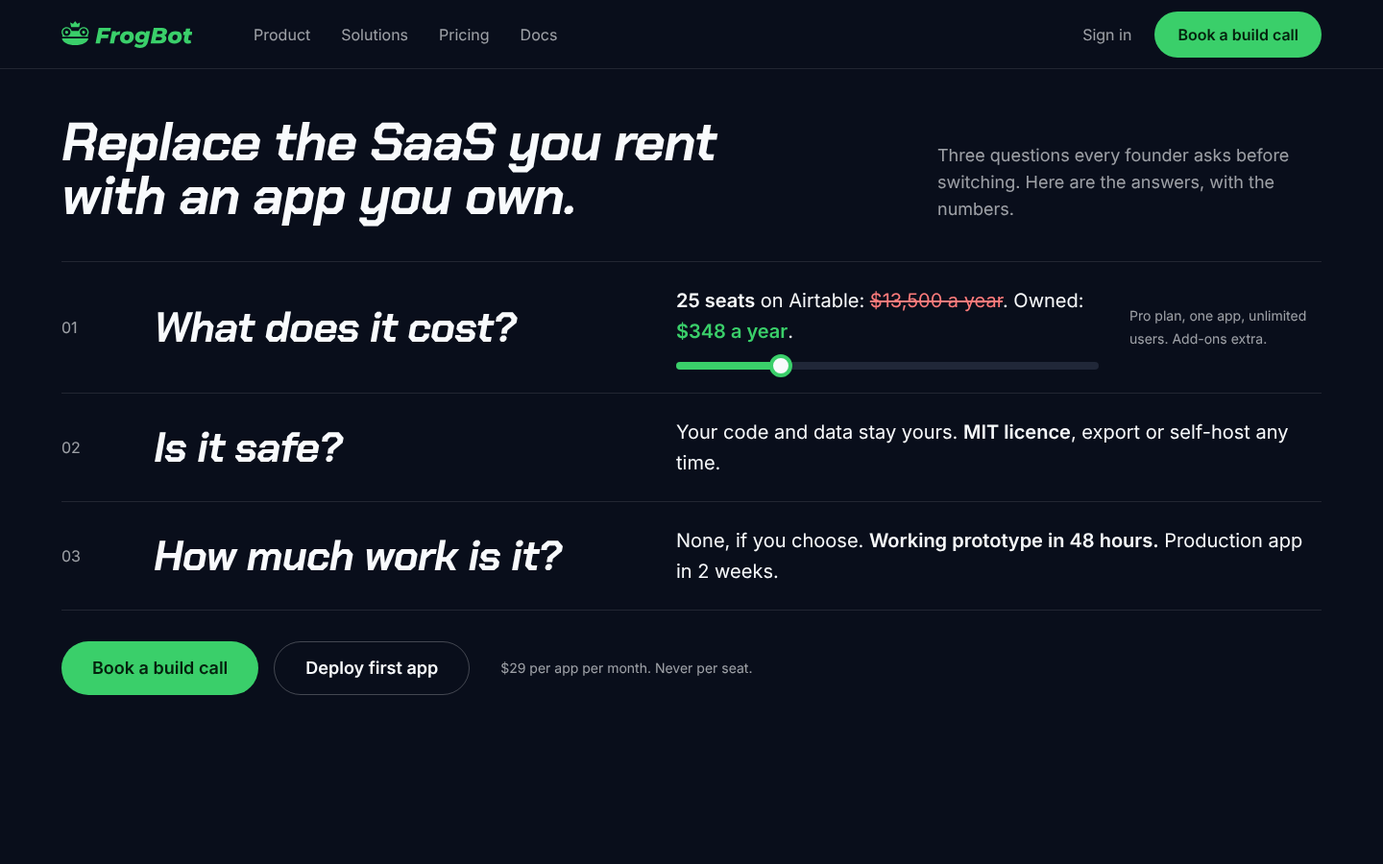
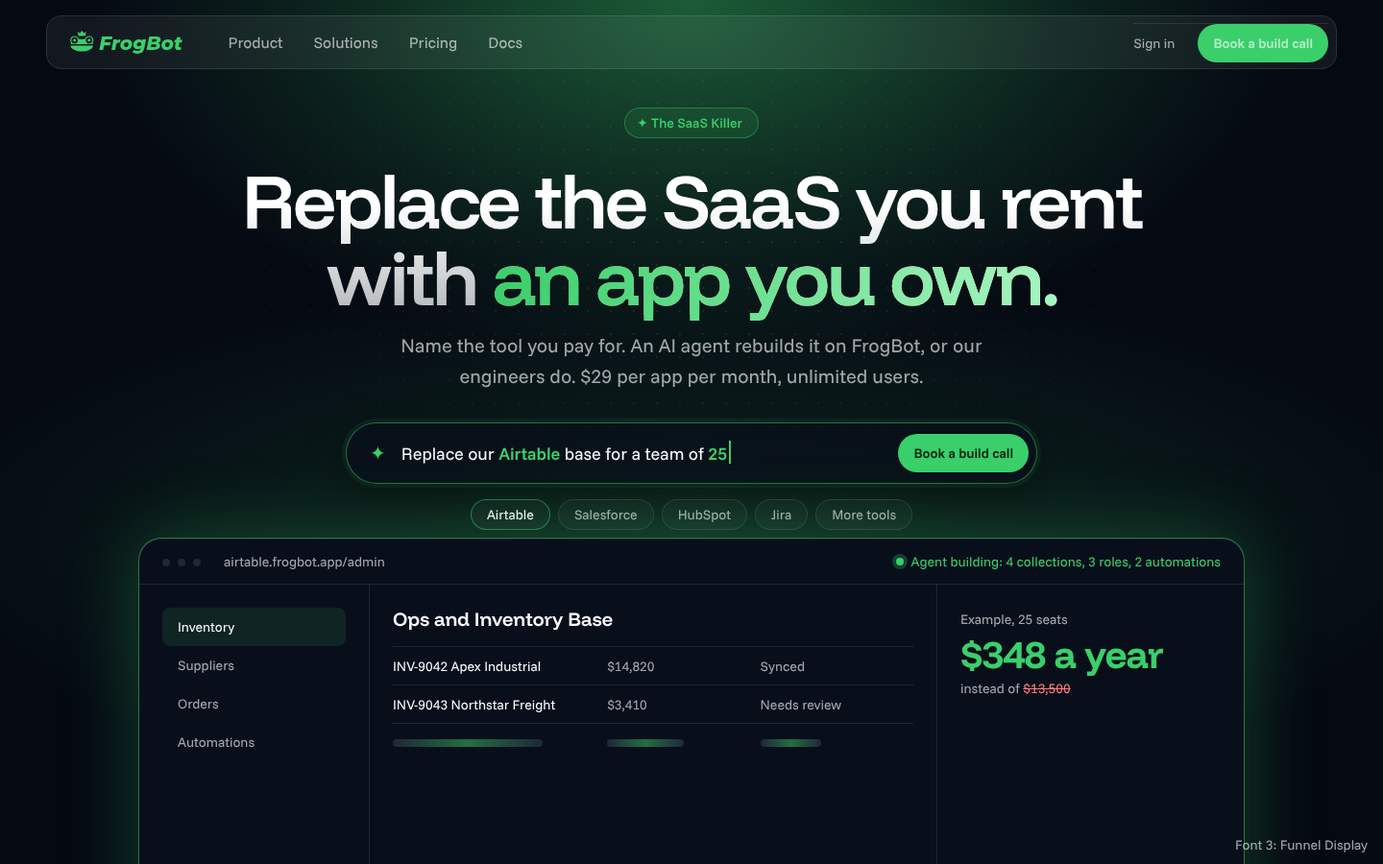
Revise home page brief: AI hero, Funnel Display, polish of current structure
Hero carries an AI command bar and agent build window, fonts move to
Funnel Display and Funnel Sans, the page keeps the current section order,
and section visuals become animated.

Claude-Session: https://claude.ai/code/session_01BMwnAaXubYm8y4ippjoaQA

diff --git a/.impeccable/mocks/decision/hero-ai-funnel.html b/.impeccable/mocks/decision/hero-ai-funnel.html
@@ -1,0 +1,55 @@
+<!doctype html><html lang="en"><head><meta charset="utf-8"><title>hero-ai-funnel</title><link href="https://fonts.googleapis.com/css2?family=Funnel+Display:wght@400..800&family=Funnel+Sans:wght@400..700&display=swap" rel="stylesheet"><style>:root{--df:"Funnel Display",sans-serif;--tf:"Funnel Sans",sans-serif;--dw:600;--dl:-0.035em}*{box-sizing:border-box;margin:0;padding:0}
+:root{--g:#3acf6a;--gi:#04210d;--bg:#090e1b;--sunk:#050912;--card:#141a2a;--el:#202738;--ink:#f8fafc;--mut:rgba(248,250,252,.64);--line:rgba(255,255,255,.1)}
+html,body{width:1440px;height:900px;overflow:hidden;background:var(--sunk);color:var(--ink);font:400 16px/24px var(--tf)}
+.glow{position:absolute;inset:0;background:radial-gradient(ellipse 880px 520px at 50% 0%,rgba(58,207,106,.42),rgba(58,207,106,.12) 46%,transparent 72%),radial-gradient(ellipse 1200px 400px at 50% 62%,rgba(58,207,106,.16),transparent 70%)}
+.grid{position:absolute;inset:0;background-image:radial-gradient(rgba(255,255,255,.09) 1px,transparent 1px);background-size:24px 24px;mask-image:radial-gradient(ellipse 800px 480px at 50% 30%,#000,transparent 75%)}
+nav{position:absolute;left:48px;right:48px;top:16px;height:56px;display:flex;align-items:center;gap:32px;padding:0 8px 0 24px;border-radius:16px;background:rgba(255,255,255,.06);border:1px solid var(--line);backdrop-filter:blur(16px)}
+.logo{height:24px;width:auto}
+nav .l{display:flex;gap:32px;color:var(--mut);margin-left:16px}
+nav .r{margin-left:auto;display:flex;gap:24px;align-items:center;color:var(--mut)}
+.b{display:inline-flex;align-items:center;gap:8px;height:48px;padding:0 24px;border-radius:999px;font-weight:600;font-size:16px;white-space:nowrap}
+.b.p{background:var(--g);color:var(--gi);box-shadow:0 0 32px rgba(58,207,106,.45)}
+.b.s{border:1px solid rgba(255,255,255,.2);color:var(--ink);background:rgba(255,255,255,.04)}
+.b.sm{height:40px;padding:0 16px;font-size:14px;box-shadow:none}
+main{position:absolute;inset:0;padding-top:112px;text-align:center}
+.tag{display:inline-flex;align-items:center;gap:8px;height:32px;padding:0 16px 0 12px;border-radius:999px;border:1px solid rgba(58,207,106,.4);background:rgba(58,207,106,.1);color:var(--g);font-size:14px;font-weight:500}
+h1{font-family:var(--df);font-weight:var(--dw);font-size:80px;line-height:80px;letter-spacing:var(--dl);margin:24px auto 16px;max-width:1040px;background:linear-gradient(180deg,#fff 30%,rgba(248,250,252,.72));-webkit-background-clip:text;color:transparent}
+h1 em{font-style:normal;background:linear-gradient(90deg,#3acf6a,#a8f5c0);-webkit-background-clip:text;color:transparent}
+.sub{font-size:20px;line-height:32px;color:var(--mut);max-width:640px;margin:0 auto 32px}
+.bar{width:720px;margin:0 auto;height:64px;border-radius:999px;display:flex;align-items:center;gap:16px;padding:0 8px 0 24px;background:rgba(9,14,27,.72);border:1px solid rgba(58,207,106,.5);box-shadow:0 0 0 4px rgba(58,207,106,.08),0 16px 48px rgba(0,0,0,.4);text-align:left;font-size:18px}
+.bar .sp{color:var(--g);font-size:20px}
+.bar .tx{flex:1}.bar .tx b{font-weight:600;color:var(--g)}
+.caret{display:inline-block;width:2px;height:24px;background:var(--g);vertical-align:-4px;margin-left:2px}
+.chips{display:flex;gap:8px;justify-content:center;margin-top:16px;font-size:14px;color:var(--mut)}
+.chips span{height:32px;padding:0 16px;display:inline-flex;align-items:center;border:1px solid var(--line);border-radius:999px;background:rgba(255,255,255,.03)}
+.chips .on{border-color:rgba(58,207,106,.5);color:var(--ink)}
+.win{position:absolute;left:144px;right:144px;top:560px;height:480px;border-radius:24px 24px 0 0;background:var(--bg);border:1px solid rgba(58,207,106,.55);box-shadow:0 0 80px rgba(58,207,106,.28),inset 0 1px 0 rgba(255,255,255,.08);text-align:left;overflow:hidden}
+.wh{height:48px;display:flex;align-items:center;gap:16px;padding:0 24px;border-bottom:1px solid var(--line);font-size:14px;color:var(--mut)}
+.dots i{display:inline-block;width:8px;height:8px;border-radius:50%;background:var(--el);margin-right:8px}
+.agent{margin-left:auto;display:flex;gap:8px;align-items:center;color:var(--g)}
+.pulse{width:8px;height:8px;border-radius:50%;background:var(--g);box-shadow:0 0 0 4px rgba(58,207,106,.25)}
+.wb{display:grid;grid-template-columns:240px 1fr 320px;height:100%}
+.side{border-right:1px solid var(--line);padding:24px;font-size:14px;color:var(--mut)}
+.side div{height:40px;display:flex;align-items:center;padding:0 16px;border-radius:8px}
+.side .on{background:rgba(58,207,106,.12);color:var(--ink)}
+.mid{padding:24px}.mid h3{font-family:var(--df);font-size:20px;font-weight:600;margin-bottom:16px}
+.r{display:grid;grid-template-columns:1.4fr 1fr 1fr;height:40px;align-items:center;border-top:1px solid var(--line);font-size:14px}
+.r span:nth-child(2),.r span:nth-child(3){color:var(--mut)}
+.sk{height:8px;border-radius:999px;background:linear-gradient(90deg,var(--el),rgba(58,207,106,.5),var(--el));width:70%}
+.save{border-left:1px solid var(--line);padding:24px;font-size:14px;color:var(--mut)}
+.save .n{font-family:var(--df);font-weight:700;font-size:40px;line-height:48px;color:var(--g);letter-spacing:-.02em}
+.save s{color:#ff7b7b}
+.fl{position:absolute;right:16px;bottom:8px;font-size:14px;color:var(--mut)}
+</style></head><body><div class="glow"></div><div class="grid"></div>
+<nav><svg class="logo" xmlns="http://www.w3.org/2000/svg" viewBox="0 0 434.88947 89.502669"><g transform="translate(-4.4488114,-9.7612966)"><mask id="frogbot-logo-eyes-header" maskUnits="userSpaceOnUse" x="0" y="0" width="100" height="100"><rect x="0" y="0" width="100" height="100" fill="#ffffff"></rect><path d="m 21.8,41.8 c 2.8,0 5.1,2.3 5.1,5.1 0,2.8 -2.3,5.1 -5.1,5.1 -2.8,0 -5.1,-2.3 -5.1,-5.1 0,-2.9 2.3,-5.1 5.1,-5.1 m 0,-7.7 c -7,0 -12.7,5.7 -12.7,12.7 0,7 5.7,12.7 12.7,12.7 7,0 12.7,-5.7 12.7,-12.7 0,-7 -5.7,-12.7 -12.7,-12.7 z" fill="#000000"></path><path d="m 78.2,41.8 c 2.8,0 5.1,2.3 5.1,5.1 0,2.8 -2.3,5.1 -5.1,5.1 -2.8,0 -5.1,-2.3 -5.1,-5.1 0.1,-2.9 2.3,-5.1 5.1,-5.1 m 0,-7.7 c -7,0 -12.7,5.7 -12.7,12.7 0,7 5.7,12.7 12.7,12.7 7,0 12.7,-5.7 12.7,-12.7 0,-7 -5.7,-12.7 -12.7,-12.7 z" fill="#000000"></path></mask><g mask="url(#frogbot-logo-eyes-header)" fill="#3acf6a"><path d="M 93.9,67.1 C 92.9,79.9 73.6,90 50,90 26.4,90 7.1,79.9 6.1,67.1 Z"></path><path d="m 92.2,59.4 c 0.5,0.9 0.8,1.8 1.1,2.7 H 6.7 C 7,61.2 7.3,60.3 7.8,59.5 8.3,58.5 8.3,57.3 7.6,56.3 5.8,53.6 4.8,50.4 4.8,46.9 c 0,-9.4 7.6,-17 17,-17 7.2,0 13.4,4.5 15.9,10.9 0.5,1.3 1.8,2.1 3.1,1.9 3,-0.3 6.1,-0.5 9.2,-0.5 3.2,0 6.3,0.2 9.2,0.5 1.3,0.2 2.6,-0.6 3.1,-1.8 C 65,33.8 72.1,29 80.2,30 c 7.8,0.9 14.1,7.3 14.9,15.1 0.4,4.1 -0.7,8 -2.8,11.1 -0.6,1 -0.6,2.2 -0.1,3.2 z"></path><path d="m 65.5,14.8 -7.8,3.9 c -0.3,0.1 -0.6,0.1 -0.8,-0.2 l -6.5,-8.3 c -0.3,-0.3 -0.7,-0.3 -1,0 l -6.2,8.5 C 43,18.9 42.7,19 42.4,18.9 l -8,-4.1 c -0.5,-0.2 -1,0.2 -0.9,0.7 L 36.7,29 c 0.1,0.5 0.6,0.9 1.1,0.9 h 24.5 c 0.5,0 1,-0.4 1.1,-0.9 l 3.1,-13.5 c 0,-0.5 -0.5,-0.9 -1,-0.7 z"></path></g></g><path fill="#3acf6a" d="M164.7347568 22.078708 162.42008909999998 33.5027131H136.2867441L133.9720764 45.001384900000005H157.04408669999998L154.729419 56.42539000000001H131.73207539999999L128.1480738 74.345398H113.3640672L123.8174052 22.078708Z M181.23609750000003 38.3560486Q186.3134331 33.2040463 195.8707707 33.2040463L193.40676960000002 45.972052000000005Q191.5401021 45.74805190000001 190.1961015 45.74805190000001Q185.4174327 45.74805190000001 182.54276475 48.025386250000004Q179.6680968 50.3027206 178.69742970000001 55.2307228L174.81476130000001 74.345398H160.6280883L168.6920919 33.8760466H182.13209790000002Z M194.97477030000002 56.5747234Q194.97477030000002 49.9293871 198.1854384 44.628051400000004Q201.3961065 39.3267157 207.0707757 36.265381000000005Q212.7454449 33.2040463 219.83878140000002 33.2040463Q226.2601176 33.2040463 231.0387864 35.481380650000006Q235.8174552 37.758715 238.4307897 41.902716850000004Q241.0441242 46.0467187 241.0441242 51.57205450000001Q241.0441242 58.217390800000004 237.8334561 63.556059850000004Q234.622788 68.8947289 228.98545215000001 71.9560636Q223.34811630000002 75.0173983 216.1801131 75.0173983Q209.75877690000002 75.0173983 204.9801081 72.74006395Q200.2014393 70.4627296 197.5881048 66.28139440000001Q194.97477030000002 62.100059200000004 194.97477030000002 56.5747234ZM226.6334511 52.3187215Q226.6334511 48.884053300000005 224.6174502 46.68138565Q222.6014493 44.478718 219.01744770000002 44.478718Q214.76144580000002 44.478718 212.07344460000002 47.65205275Q209.3854434 50.825387500000005 209.3854434 55.9027231Q209.3854434 59.4867247 211.4014443 61.614725650000004Q213.4174452 63.742726600000005 217.0014468 63.742726600000005Q221.2574487 63.742726600000005 223.9454499 60.56939185Q226.6334511 57.39605710000001 226.6334511 52.3187215Z M281.4388089 33.8760466H294.95348160000003L288.382812 66.878728Q286.06814430000003 78.6013999 279.3481413 84.052069Q272.6281383 89.5027381 261.6521334 89.5027381Q249.4067946 89.5027381 241.94012460000002 84.2760691L248.2867941 74.4200647Q250.7507952 76.3613989 254.40946350000002 77.4813994Q258.0681318 78.6013999 262.0254669 78.6013999Q267.3268026 78.6013999 270.05213715 76.32406555Q272.77747170000004 74.0467312 273.6734721 69.4920625L273.9721389 68.1480619Q269.4174702 72.2547304 262.6974672 72.2547304Q257.8441317 72.2547304 253.8121299 70.16406280000001Q249.7801281 68.07339520000001 247.39079370000002 64.15339345000001Q245.00145930000002 60.2333917 245.00145930000002 55.0067227Q245.00145930000002 49.0333867 247.9134606 44.030717800000005Q250.82546190000002 39.0280489 255.90279750000002 36.1160476Q260.9801331 33.2040463 267.1774692 33.2040463Q271.8068046 33.2040463 275.20413945 34.921380400000004Q278.6014743 36.6387145 280.16947500000003 40.2973828ZM276.43614 51.198721000000006Q276.43614 48.212053 274.42013910000003 46.38271885Q272.40413820000003 44.5533847 268.89480330000004 44.5533847Q264.63880140000003 44.5533847 261.9508002 47.27871925Q259.26279900000003 50.0040538 259.26279900000003 54.334722400000004Q259.26279900000003 57.3213904 261.2787999 59.1133912Q263.2948008 60.905392000000006 266.87880240000004 60.905392000000006Q271.1348043 60.905392000000006 273.78547215000003 58.217390800000004Q276.43614 55.5293896 276.43614 51.198721000000006Z M349.3855059 57.7693906Q349.3855059 65.90806090000001 342.7401696 70.12672945Q336.0948333 74.345398 325.4174952 74.345398H296.67081570000005L307.1241537 22.078708H333.5561655Q342.3668361 22.078708 347.03350485 25.25204275Q351.7001736 28.425377500000003 351.7001736 34.324046800000005Q351.7001736 38.8787155 349.23617250000007 42.20138365Q346.77217140000005 45.5240518 342.3668361 47.3907193Q345.7268376 48.884053300000005 347.55617175 51.53472115Q349.3855059 54.185389 349.3855059 57.7693906ZM319.59349260000005 32.7560461 317.5774917 42.83605060000001H328.1801631Q332.13749820000004 42.83605060000001 334.19083245 41.305383250000006Q336.24416670000005 39.774715900000004 336.24416670000005 36.862714600000004Q336.24416670000005 32.7560461 330.0468306 32.7560461ZM326.23882890000004 63.6680599Q330.196164 63.6680599 332.436165 62.100059200000004Q334.676166 60.532058500000005 334.676166 57.4707238Q334.676166 55.2307228 333.03349860000003 54.14805565Q331.39083120000004 53.0653885 328.5534966 53.0653885H315.48682410000004L313.3961565 63.6680599Z M354.6868416 56.5747234Q354.6868416 49.9293871 357.8975097 44.628051400000004Q361.1081778 39.3267157 366.782847 36.265381000000005Q372.4575162 33.2040463 379.5508527 33.2040463Q385.9721889 33.2040463 390.7508577 35.481380650000006Q395.5295265 37.758715 398.142861 41.902716850000004Q400.7561955 46.0467187 400.7561955 51.57205450000001Q400.7561955 58.217390800000004 397.54552739999997 63.556059850000004Q394.3348593 68.8947289 388.69752345 71.9560636Q383.0601876 75.0173983 375.8921844 75.0173983Q369.4708482 75.0173983 364.6921794 72.74006395Q359.9135106 70.4627296 357.3001761 66.28139440000001Q354.6868416 62.100059200000004 354.6868416 56.5747234ZM386.3455224 52.3187215Q386.3455224 48.884053300000005 384.3295215 46.68138565Q382.3135206 44.478718 378.729519 44.478718Q374.4735171 44.478718 371.78551589999995 47.65205275Q369.0975147 50.825387500000005 369.0975147 55.9027231Q369.0975147 59.4867247 371.1135156 61.614725650000004Q373.1295165 63.742726600000005 376.7135181 63.742726600000005Q380.96952 63.742726600000005 383.6575212 60.56939185Q386.3455224 57.39605710000001 386.3455224 52.3187215Z M424.57487280000004 45.972052000000005 421.8868716 59.2627246Q421.7375382 60.3080584 421.7375382 60.6067252Q421.7375382 64.0413934 425.4708732 64.0413934Q427.4868741 64.0413934 429.72687510000003 62.846726200000006L431.5188759 72.6280639Q427.33754070000003 75.0173983 420.9908712 75.0173983Q414.7188684 75.0173983 411.02286675000005 71.8813969Q407.3268651 68.7453955 407.3268651 63.145393Q407.3268651 60.9800587 407.7001986 59.3373913L410.38819980000005 45.972052000000005H404.41486380000003L406.5801981 35.3693806H412.4788674L414.56953500000003 24.841375900000003H428.756208L426.66554040000005 35.3693806H435.84954450000004L433.7588769 45.972052000000005Z"></path></svg><div class="l"><span>Product</span><span>Solutions</span><span>Pricing</span><span>Docs</span></div><div class="r"><span>Sign in</span><span class="b p sm">Book a build call</span></div></nav>
+<main><span class="tag">&#10022; The SaaS Killer</span>
+<h1>Replace the SaaS you rent with <em>an app you own.</em></h1>
+<p class="sub">Name the tool you pay for. An AI agent rebuilds it on FrogBot, or our engineers do. $29 per app per month, unlimited users.</p>
+<div class="bar"><span class="sp">&#10022;</span><span class="tx">Replace our <b>Airtable</b> base for a team of <b>25</b><span class="caret"></span></span><span class="b p sm">Book a build call</span></div>
+<div class="chips"><span class="on">Airtable</span><span>Salesforce</span><span>HubSpot</span><span>Jira</span><span>More tools</span></div>
+</main>
+<div class="win"><div class="wh"><span class="dots"><i></i><i></i><i></i></span><span>airtable.frogbot.app/admin</span><span class="agent"><i class="pulse"></i>Agent building: 4 collections, 3 roles, 2 automations</span></div>
+<div class="wb"><div class="side"><div class="on">Inventory</div><div>Suppliers</div><div>Orders</div><div>Automations</div></div>
+<div class="mid"><h3>Ops and Inventory Base</h3><div class="r"><span>INV-9042 Apex Industrial</span><span>$14,820</span><span>Synced</span></div><div class="r"><span>INV-9043 Northstar Freight</span><span>$3,410</span><span>Needs review</span></div><div class="r"><span><i class="sk" style="display:block"></i></span><span><i class="sk" style="display:block;width:50%"></i></span><span><i class="sk" style="display:block;width:40%"></i></span></div></div>
+<div class="save">Example, 25 seats<div class="n">$348 a year</div>instead of <s>$13,500</s></div></div></div>
+<div class="fl">Font 3: Funnel Display</div></body></html>

diff --git a/brand/tokens.css b/brand/tokens.css
@@ -3,7 +3,7 @@
   Colors are copied from the live frogbot.ai site (read 2026-11-14), not invented.
   The brand green is unified to the logo green, #3acf6a.
   Spacing follows the 8px grid required for the redesign.
-  Type families and the final type scale are decided when the home page redesign starts.
+  Type: Funnel Display (headings) and Funnel Sans (text). The type scale is set when the home page is built.
 */
 
 :root {
@@ -11,6 +11,10 @@
      The live site mixes #22e05a, #3acf6a and #2f964f; the redesign uses only this one. */
   --fb-green: #3acf6a;          /* logo, CTAs, links, highlights */
   --fb-green-ink: #04210d;      /* text on a green fill */
+
+  /* Type */
+  --font-display: "Funnel Display", sans-serif;
+  --font-text: "Funnel Sans", sans-serif;
 
   /* Dark surfaces, darkest to lightest */
   --fb-surface-sunken: #050912;

diff --git a/docs/home-page-brief.md b/docs/home-page-brief.md
@@ -1,64 +1,88 @@
 # Home page brief
 
-Status: draft for confirmation. No code written yet. Sketch of the chosen hero: `docs/shape/home-hero-sketch.png` (structure only, not final design).
+Status: revised draft (v2) for confirmation. No production code written yet. Hero sketch: `docs/shape/home-hero-sketch.png` (static, structure and style only).
+
+Changes from v1 (designer feedback, 2026-11-14): the italic techno hero font is dropped, the hero carries a visible AI element, the page keeps the current site's section order and is polished rather than restructured, and section visuals become animated. Style reference: https://ovo-waiting.framer.website/
 
 ## 1. Job and audience
 
 - Visitor: a founder or operator who pays for per-seat SaaS, is not technical, and arrives sceptical. Mode: Persuade.
-- They need three answers before they act: what it costs, whether it is safe, how much work it is for them.
-- Secondary visitor: a developer or internal builder. Served lower on the page, never in the first screen.
+- They judge three things: cost, safety, and how much work it is for them.
+- Secondary visitor: a developer or internal builder, served by the "how it works" and framework sections.
 
 ## 2. Outcome and proof
 
-- Primary action: "Book a build call" (green, in the header, the hero, the end of the "work" section, the close, and the mobile menu).
-- Secondary action: "Deploy first app".
-- There is no customer proof. Belief is earned with checkable facts only: published price, MIT licence and public repository, export and self-hosting, "cancel and keep your code and data", DPA and security addendum links, dated competitor list prices.
+- Primary action: "Book a build call" (header, hero, Enterprise section, pricing, close, mobile menu, mobile sticky bar).
+- Secondary action: "Deploy first app". Builder shortcut: "Copy prompt".
+- No customer proof exists. Belief comes from checkable facts: published price, MIT licence and public repository, export and self-hosting, "cancel and keep your code and data", DPA and security addendum, dated competitor list prices.
 - Delivery statement, used everywhere: "Working prototype in 48 hours. Production app in 2 weeks."
 
 ## 3. Selected direction
 
-- Visual authority: the existing FrogBot identity. Dark surfaces, the single green `#3acf6a`, the frog logo, Chakra Petch italic for display, Inter for text. Tokens in `brand/tokens.css`.
-- Structure: "Three questions". The page is a founder's interview of FrogBot. The hero states the offer, then lists the three questions as large display lines with a one-line answer beside each. Each question then gets its own section further down, in the same order.
-- Focal moment: the seat slider sits inside the "What does it cost?" row of the hero. Dragging it rewrites the rented price and the owned price in place.
-- Discipline borrowed from data-graphic tradition: in the cost section the saving is drawn as two proportional bars (rented vs owned), so the difference is seen before it is read.
+- Goal: polish the existing site to the level of the leading AI product sites. Keep what works (content, section order, the savings demo), raise the craft.
+- Identity kept: dark surfaces, the single green `#3acf6a`, the frog logo.
+- Type: Funnel Display for headings, Funnel Sans for text (both free Google fonts). Upright, large, tight letter spacing. Chakra Petch and Inter are retired.
+- Style, taken from the reference and translated into FrogBot green: a glow that falls from the top of the hero, a glass navigation bar, a product window with a lit border, soft dot grid, bento cards with animated abstract illustrations, text that fades and sharpens into place on scroll.
+- AI presence in the hero: a command bar that types itself ("Replace our Airtable base for a team of 25"), tool chips that change the sentence and the price, and a product window below where an agent is seen assembling the app.
+- Honesty rule: the command bar is a demonstration and a tool selector, not a text input. FrogBot has no in-browser builder, so the page must not invite the visitor to type a prompt. The window is labelled as an example.
 
-## 4. Sequence
+## 4. Sequence (current site order, each section redesigned)
 
-1. Header: logo, Product, Solutions, Pricing, Docs, Sign in, Book a build call.
-2. Hero: headline "Replace the SaaS you rent with an app you own.", the three questions with answers, both buttons, the line "$29 per app per month. Never per seat."
-3. What does it cost? Full seat calculator (tool selector plus slider), proportional bars, the comparison table with dated sources, the four plans, "We never auto-scale your bill".
-4. Is it safe? Ownership facts as a checkable list, each with a link: MIT licence and repository, export, self-host or move to Dojo and back, what happens when you cancel, DPA and security addendum.
-5. How much work is it? Two paths side by side. "We build it": three steps (show us the bill and the workflow, prototype in 48 hours on your data, production in 2 weeks), then Book a build call. "You build it": the agent prompt and CLI command, a short list of what the framework includes, Read the docs, Deploy first app.
-6. What you can replace: the six use cases, each linking to its solution page, worded "Replace Airtable", not "Kill Airtable".
-7. Questions: FAQ with the corrected delivery times. The "browser prompt box" question is removed.
-8. Close: "Build it yourself, or have us do it." with both buttons, then the footer.
+1. Header: glass bar. Logo, Product, Solutions, Pricing, Docs, Sign in, Book a build call.
+2. Hero: brand tag "The SaaS Killer", headline "Replace the SaaS you rent with an app you own.", one-line offer with the price, AI command bar, tool chips, product window with the agent build and the saving.
+3. The 80 / 20 statement: "Anyone can build the first 80%. FrogBot covers the last 20%." Short, with a single animated bar that fills the last fifth.
+4. How it works: three steps (describe it, the stack is already built, deploy or have it built). Code moves into a small expandable panel so the section reads for a founder first.
+5. What is in the box: four bento cards, each with an animated illustration (below).
+6. Use cases: six tools you can replace, worded "Replace Airtable", each linking to its solution page.
+7. We build it for you (Enterprise): three steps on a timeline, 48 hours and 2 weeks, ending in "Book a build call". This section currently has no button.
+8. Built to own, not rent: comparison table with dated sources, FrogBot column lit.
+9. Pricing: four plans, the seat calculator with proportional bars, "We never auto-scale your bill".
+10. Questions: six FAQs with the corrected delivery times.
+11. Close: "Build it yourself, or have us do it." with both buttons, then the footer.
 
-## 5. Scope and boundaries
+## 5. Animated section visuals
 
-- In scope: the home page only, production-ready responsive HTML and CSS, with a working seat calculator. Reusable components and tokens that later pages inherit.
+All built in code (SVG and CSS, small script where needed). No video files, no heavy libraries.
+
+| Section | Visual |
+|---|---|
+| Hero | Command bar types and retypes; rows in the product window resolve from shimmer to data; the saving counts to its value |
+| 80 / 20 | A bar fills to 80% in grey, then the last 20% fills in green |
+| Integrations | App icons orbit the FrogBot mark; one lights up at a time |
+| AI agents and workflows | A node network with a pulse of light travelling step to step |
+| Database views | A table reflows into a Kanban board and back |
+| White-label | A logo tile and accent colour swap in three beats |
+| We build it | A timeline draws itself from call to 48 hours to 2 weeks |
+| Pricing | Dragging the seat slider grows the rented bar; the owned bar stays fixed |
+
+Motion rules: animations start when the section enters the viewport and run once or loop slowly; none shifts layout; with reduced-motion enabled every visual is a finished still frame.
+
+## 6. Scope and boundaries
+
+- In scope: the home page only, production-ready responsive HTML and CSS, with the working command bar, seat calculator and section animations. Reusable components and tokens that later pages inherit.
 - Copy: fully rewritten to `brand/voice.md`. Facts (prices, features, limits, delivery) stay exactly as published. All new copy is a draft for the client's approval.
 - Out of scope: other pages, the build-call form, the app and login.
-- Anti-goals: no invented customers, logos, testimonials or numbers. No GitHub star count. No rotating headline. No "Kill X". No code in the first three sections. No "Most Popular" badge without data.
+- Anti-goals: no invented customers, logos, testimonials or numbers. No GitHub star count. No rotating headline word. No "Kill X". No fake prompt input. No unsupported "Most Popular" badge. No copy of the reference's purple palette or its layout one to one.
 
-## 6. States and ranges
+## 7. States and ranges
 
-- Seat calculator: 5 to 200 seats, default 25. Tool selector covers the six tools on the live site (Airtable, Salesforce, HubSpot, Zendesk, Jira, Asana). Owned price is the Pro plan for one app; the note "Add-ons extra" is always visible. Example data is labelled as example data.
-- "Book a build call": destination pending until the form exists. It must never link to the login page.
-- Copy button on the prompt: idle, copied.
-- FAQ items: closed, open. Navigation menus: closed, open, keyboard focus. Mobile menu: closed, open.
-- No JavaScript: the calculator shows the 25-seat example as static text and the page stays fully readable.
+- Command bar: types its sentence, then holds. Tool chips (Airtable, Salesforce, HubSpot, Jira, and "More tools" for Zendesk and Asana): default, hover, selected, keyboard focus. Selecting a tool retypes the sentence and updates the window and the saving.
+- Seat calculator: 5 to 200 seats, default 25. Owned price is the Pro plan for one app; "Add-ons extra" is always visible. Example data is labelled.
+- "Book a build call": destination pending until the form exists. Never the login page.
+- Copy prompt: idle, copied. FAQ items: closed, open. Menus: closed, open, focus. Mobile menu: closed, open.
+- No JavaScript: the hero shows the finished Airtable example as a still, and every section stays readable.
 
-## 7. Interaction and layout
+## 8. Interaction and layout
 
-- Desktop: the three hero questions are full-width rows, question in display type on the left, answer on the right, separated by hairlines.
-- Mobile (390px): each question stacks above its answer, the slider spans the full width, the comparison table becomes one card per competitor, and a bar with "Book a build call" stays at the bottom of the screen.
-- Every tap target is at least 44px. Text is never smaller than 14px. Contrast is at least 4.5:1.
-- Motion: the calculator numbers update without layout shift. Nothing rotates or loops. Reduced-motion preference is respected.
-- Keyboard: skip link, visible custom focus ring, menus open with Enter and close with Escape, one h1 and no skipped heading levels.
+- Desktop: centred hero, product window rising from the bottom edge of the first screen. Sections alternate between full-width statements and bento grids.
+- Mobile (390px): headline scales down, command bar stacks above its button, product window becomes a single simplified card (one app, the saving, one button), comparison table becomes one card per competitor, sticky "Book a build call" bar at the bottom.
+- Tap targets at least 44px. Text never below 14px. Contrast at least 4.5:1, including text over the glow.
+- Keyboard: skip link, visible custom focus ring, menus open with Enter and close with Escape, one h1, no skipped heading levels.
+- Performance budget: no layout shift from the hero animation, fonts preloaded, animations on transform and opacity only.
 
-## 8. Constraints and open decisions
+## 9. Constraints and open decisions
 
-- Binding: site colours and logo, a free Google font, reusable components, 8px grid (4px half step), single brand green `#3acf6a`.
-- Reusable components: Button, Header, Question row, Seat calculator, Proportional bars, Comparison table, Plan card, Fact list, Step list, Prompt box, FAQ item, Sticky action bar, Footer.
-- To verify before build: the exact per-seat list prices and default seat counts behind the live site's calculator, so the new one shows the same published figures.
-- Open with the client: sign-off on the rewritten copy and on keeping "The SaaS Killer" as the brand line; whether the 48-hour prototype is free or paid (it is not stated, so the page will not claim either); the build-call form.
+- Binding: site colours and logo, free Google fonts, reusable components, 8px grid (4px half step), single brand green `#3acf6a`.
+- Reusable components: Button, Glass header, Brand tag, Command bar, Tool chip, Product window, Section heading, Step list, Bento card, Animated visual frame, Timeline, Comparison table, Plan card, Seat calculator, FAQ item, Sticky action bar, Footer.
+- To verify before build: the per-seat list prices and default seat counts behind the live site's calculator.
+- Open with the client: sign-off on the rewritten copy; whether the 48-hour prototype is free or paid (not stated, so the page claims neither); the build-call form.

diff --git a/PRODUCT.md b/PRODUCT.md
@@ -71,6 +71,8 @@ Scope (confirmed by designer): the home page is redesigned first. Other pages fo
 - Name: FrogBot. Sub-brand: Dojo (cloud).
 - Logo and colors (binding, confirmed by designer): taken from the live site and stored in `brand/`. See `brand/README.md` and `brand/tokens.css`.
 - Redesign rules (binding, confirmed by designer): use the site's colors and logo, a free Google font, reusable components, and an 8px grid.
+- Fonts (binding, confirmed by designer): Funnel Display for headings, Funnel Sans for text. The italic Chakra Petch headline is retired.
+- Style direction (confirmed by designer): this is an AI product and the site must feel like one. Polish the existing site rather than restructure it, with animated section visuals. Reference for the level and style: https://ovo-waiting.framer.website/
 - Voice (confirmed by designer): follow the tone of the leading companies in this industry, adapted to this business. The working guide is `brand/voice.md`.
 - Voice on the live site today: combative, short absolute statements, developer vocabulary. Examples: "Pay for the app. Never for the seat." "Built to own, not rent." "Own your code and data forever."
 - Brand green (binding, confirmed by designer): `#3acf6a` is the single brand and primary color everywhere.

diff --git a/brand/README.md b/brand/README.md
@@ -38,7 +38,7 @@ The site is dark only. There is no light theme.
 - Hero headline only: Chakra Petch 700, italic, uppercase (Google Fonts, free).
 - Code and prompts: system monospace.
 
-Both families already satisfy the "free Google font" rule. The final choice is made when the redesign starts.
+Decision (designer, 2026-11-14): the redesign retires both. Headings use Funnel Display and text uses Funnel Sans, both free Google fonts, set upright with tight letter spacing.
 
 ## Facts worth knowing before redesign
 
